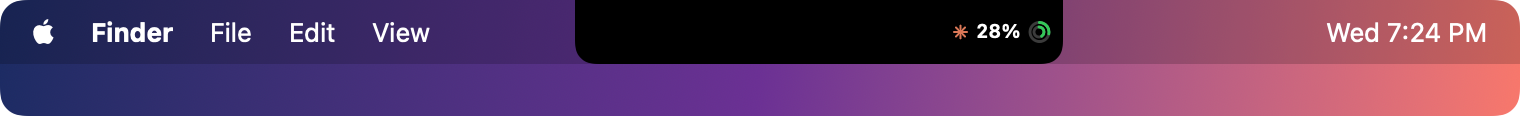
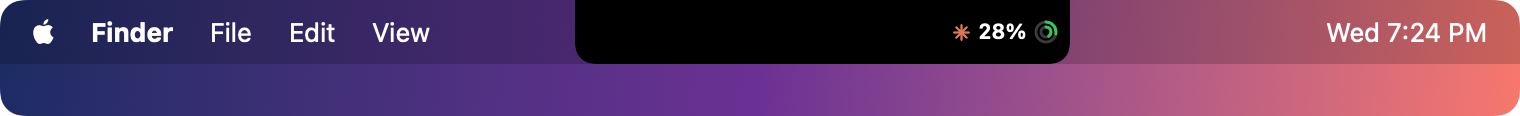
Enlarge notch and hover box text 10%

Changed region(s): [[0.6184, 0.0, 0.7112, 0.5431]]

diff --git a/Sources/AIUsage/IslandView.swift b/Sources/AIUsage/IslandView.swift
@@ -8,7 +8,7 @@ struct NotchGeometry: Equatable {
     var height: CGFloat
 
     /// The box that drops down under the island on hover. Its width matches the island, but never less than this.
-    static let detailSize = CGSize(width: 196, height: 38)
+    static let detailSize = CGSize(width: 214, height: 42)
 }
 
 @MainActor
@@ -90,8 +90,8 @@ struct DetailView: View {
     @ObservedObject var store: UsageStore
     var onOpenSettings: () -> Void
 
-    private let font = Font.system(size: 9.5, weight: .semibold).monospacedDigit()
-    private let small = Font.system(size: 9.5).monospacedDigit()
+    private let font = Font.system(size: 10.5, weight: .semibold).monospacedDigit()
+    private let small = Font.system(size: 10.5).monospacedDigit()
 
     var body: some View {
         let snap = store.current
@@ -129,7 +129,7 @@ struct DetailView: View {
 
     private func row(_ label: String, _ percent: Int?, reset: String?) -> some View {
         HStack(spacing: 5) {
-            Text(label).font(small).foregroundStyle(Palette.muted).frame(width: 13, alignment: .leading)
+            Text(label).font(small).foregroundStyle(Palette.muted).frame(width: 15, alignment: .leading)
             GeometryReader { geo in
                 HBar(percent: percent ?? 0, width: geo.size.width, height: 4)
                     .frame(maxHeight: .infinity)
@@ -138,12 +138,12 @@ struct DetailView: View {
             Text(percent.map { "\($0)%" } ?? "--")
                 .font(font)
                 .foregroundStyle(Palette.number(percent ?? 0))
-                .frame(width: 30, alignment: .trailing)
+                .frame(width: 33, alignment: .trailing)
             Text(reset ?? "")
                 .font(small)
                 .foregroundStyle(Palette.muted)
                 .lineLimit(1)
-                .frame(width: 46, alignment: .leading)
+                .frame(width: 52, alignment: .leading)
         }
     }
 }

diff --git a/Sources/AIUsage/WingView.swift b/Sources/AIUsage/WingView.swift
@@ -20,7 +20,7 @@ enum Palette {
 
 /// The small orange spark used for Claude.
 struct ClaudeMark: View {
-    var size: CGFloat = 7.7
+    var size: CGFloat = 8.5
 
     var body: some View {
         SparkShape()
@@ -123,8 +123,8 @@ struct WingView: View {
     private var s: Int { snapshot?.session.percent ?? 0 }
     private var w: Int { snapshot?.weekly.percent ?? 0 }
 
-    private let numberFont = Font.system(size: 9.5, weight: .semibold).monospacedDigit()
-    private let tinyFont = Font.system(size: 7.2, weight: .semibold).monospacedDigit()
+    private let numberFont = Font.system(size: 10.5, weight: .semibold).monospacedDigit()
+    private let tinyFont = Font.system(size: 7.9, weight: .semibold).monospacedDigit()
 
     var body: some View {
         HStack(spacing: 4) {
@@ -148,7 +148,7 @@ struct WingView: View {
         case .dotPair:
             HStack(spacing: 3) {
                 pct(s)
-                Text("·").font(.system(size: 7.7)).foregroundStyle(Palette.muted)
+                Text("·").font(.system(size: 8.5)).foregroundStyle(Palette.muted)
                 pct(w).opacity(0.85)
             }
         case .concentric:
@@ -192,7 +192,7 @@ struct WingView: View {
         case .alternating:
             TimelineView(.periodic(from: .now, by: 2.5)) { context in
                 let showWeekly = Int(context.date.timeIntervalSinceReferenceDate / 2.5) % 2 == 1
-                labeled(showWeekly ? "W" : "5h", showWeekly ? w : s, font: numberFont, labelSize: 7.7)
+                labeled(showWeekly ? "W" : "5h", showWeekly ? w : s, font: numberFont, labelSize: 8.5)
                     .animation(.easeInOut(duration: 0.25), value: showWeekly)
             }
         }
